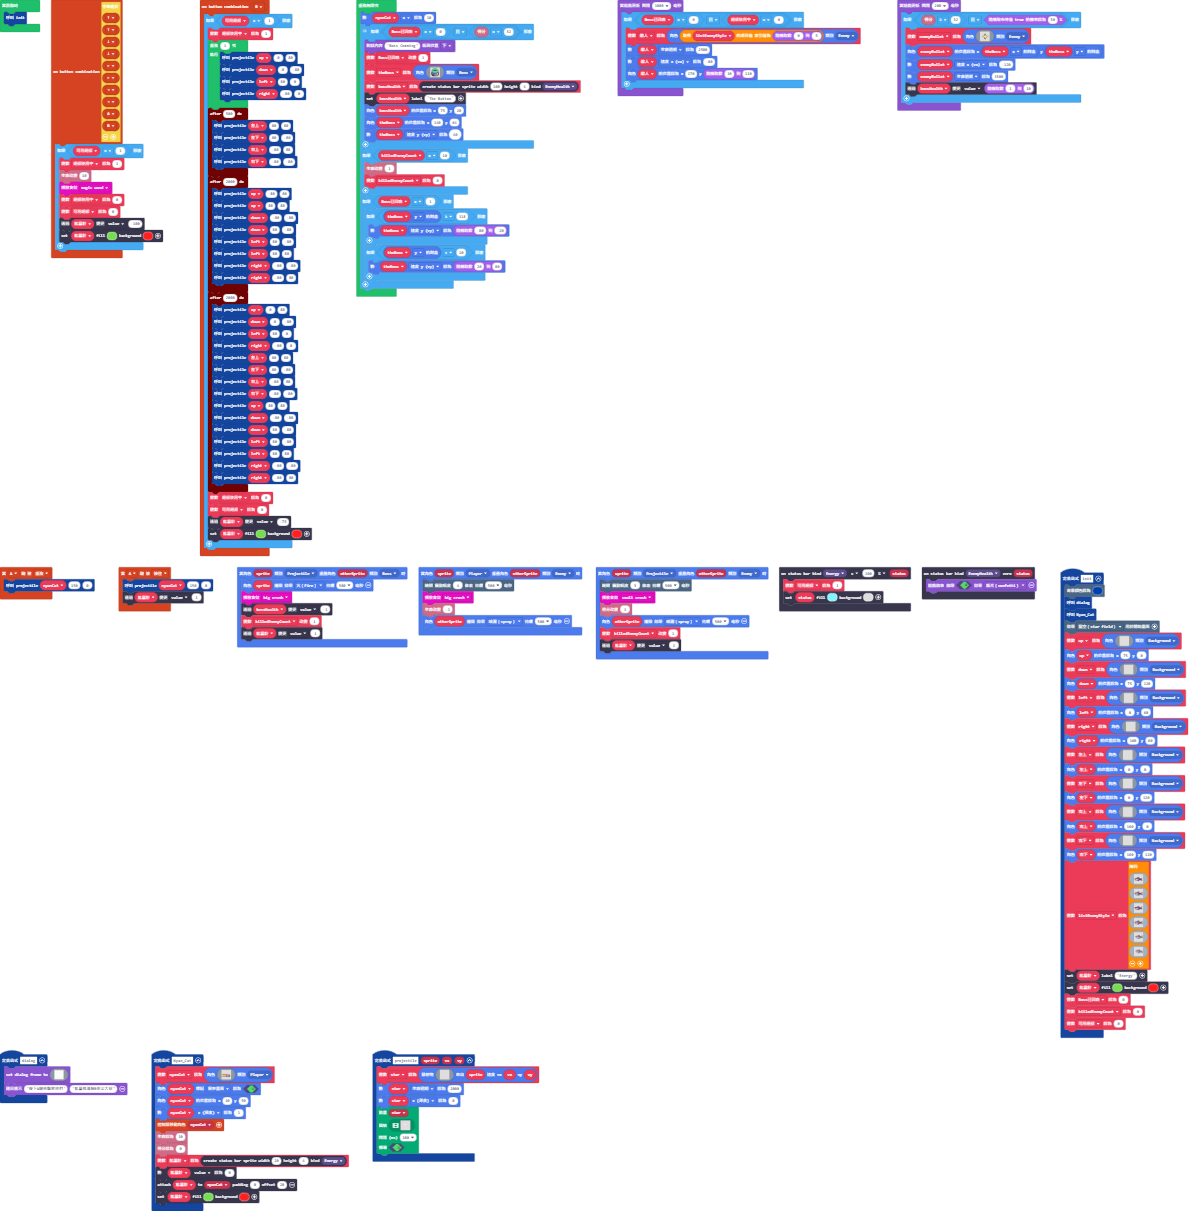
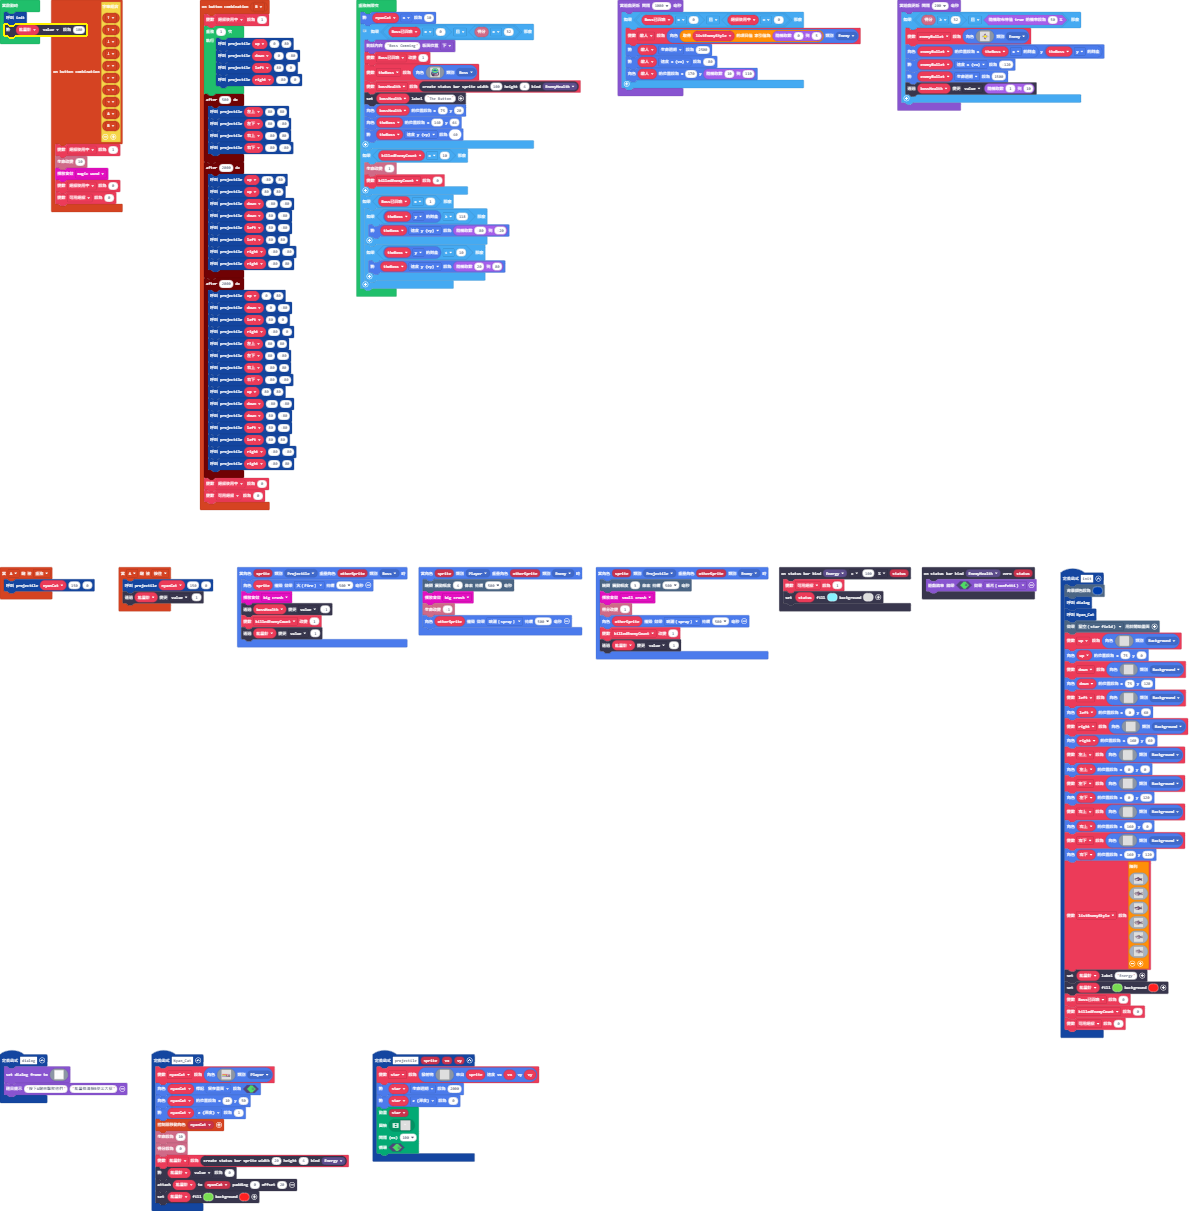
更新 main.blocks, main.ts

Changed region(s): [[0.0308, 0.0, 0.2773, 0.4583], [0.0, 0.0, 0.0924, 0.0611]]

diff --git a/main.ts b/main.ts
@@ -6,52 +6,48 @@ controller.A.onEvent(ControllerButtonEvent.Repeated, function () {
     projectile(nyanCat, 150, 0)
 })
 controller.combos.attachCombo(controller.combos.idToString(controller.combos.ID.B), function () {
-    if (可用絕招 == 1) {
-        絕招使用中 = 1
-        for (let index = 0; index < 1; index++) {
-            projectile(up, 0, 80)
-            projectile(down, 0, -80)
-            projectile(left, 80, 0)
-            projectile(right, -80, 0)
-        }
-        timer.after(500, function () {
-            projectile(左上, 80, 80)
-            projectile(左下, 80, -80)
-            projectile(右上, -80, 80)
-            projectile(右下, -80, -80)
-        })
-        timer.after(2000, function () {
-            projectile(up, -80, 80)
-            projectile(up, 80, 80)
-            projectile(down, -80, -80)
-            projectile(down, 80, -80)
-            projectile(left, 80, -80)
-            projectile(left, 80, 80)
-            projectile(right, -80, -80)
-            projectile(right, -80, 80)
-        })
-        timer.after(2000, function () {
-            projectile(up, 0, 80)
-            projectile(down, 0, -80)
-            projectile(left, 80, 0)
-            projectile(right, -80, 0)
-            projectile(左上, 80, 80)
-            projectile(左下, 80, -80)
-            projectile(右上, -80, 80)
-            projectile(右下, -80, -80)
-            projectile(up, 80, 80)
-            projectile(down, -80, -80)
-            projectile(down, 80, -80)
-            projectile(left, 80, -80)
-            projectile(left, 80, 80)
-            projectile(right, -80, -80)
-            projectile(right, -80, 80)
-        })
-        絕招使用中 = 0
-        可用絕招 = 0
-        能量計.value += -75
-        能量計.setColor(7, 2)
+    絕招使用中 = 1
+    for (let index = 0; index < 1; index++) {
+        projectile(up, 0, 80)
+        projectile(down, 0, -80)
+        projectile(left, 80, 0)
+        projectile(right, -80, 0)
     }
+    timer.after(500, function () {
+        projectile(左上, 80, 80)
+        projectile(左下, 80, -80)
+        projectile(右上, -80, 80)
+        projectile(右下, -80, -80)
+    })
+    timer.after(2000, function () {
+        projectile(up, -80, 80)
+        projectile(up, 80, 80)
+        projectile(down, -80, -80)
+        projectile(down, 80, -80)
+        projectile(left, 80, -80)
+        projectile(left, 80, 80)
+        projectile(right, -80, -80)
+        projectile(right, -80, 80)
+    })
+    timer.after(2000, function () {
+        projectile(up, 0, 80)
+        projectile(down, 0, -80)
+        projectile(left, 80, 0)
+        projectile(right, -80, 0)
+        projectile(左上, 80, 80)
+        projectile(左下, 80, -80)
+        projectile(右上, -80, 80)
+        projectile(右下, -80, -80)
+        projectile(up, 80, 80)
+        projectile(down, -80, -80)
+        projectile(down, 80, -80)
+        projectile(left, 80, -80)
+        projectile(left, 80, 80)
+        projectile(right, -80, -80)
+        projectile(right, -80, 80)
+    })
+    絕招使用中 = 0
+    可用絕招 = 0
 })
 controller.A.onEvent(ControllerButtonEvent.Pressed, function () {
     projectile(nyanCat, 150, 0)
@@ -101,15 +97,11 @@ statusbars.onZero(StatusBarKind.EnemyHealth, function (status) {
     game.over(true, effects.confetti)
 })
 controller.combos.attachCombo("" + controller.combos.idToString(controller.combos.ID.up) + controller.combos.idToString(controller.combos.ID.up) + controller.combos.idToString(controller.combos.ID.down) + controller.combos.idToString(controller.combos.ID.down) + controller.combos.idToString(controller.combos.ID.left) + controller.combos.idToString(controller.combos.ID.left) + controller.combos.idToString(controller.combos.ID.right) + controller.combos.idToString(controller.combos.ID.right) + controller.combos.idToString(controller.combos.ID.A) + controller.combos.idToString(controller.combos.ID.B), function () {
-    if (可用絕招 == 1) {
-        絕招使用中 = 1
-        info.changeLifeBy(10)
-        music.magicWand.play()
-        絕招使用中 = 0
-        可用絕招 = 0
-        能量計.value += -100
-        能量計.setColor(7, 2)
-    }
+    絕招使用中 = 1
+    info.changeLifeBy(10)
+    music.magicWand.play()
+    絕招使用中 = 0
+    可用絕招 = 0
 })
 function init () {
     scene.setBackgroundColor(8)
@@ -438,7 +430,7 @@ let Boss已召喚 = 0
 let listEnemyStyle: Image[] = []
 let killedEnemyCount = 0
 let bossHealth: StatusBarSprite = null
-let 能量計: StatusBarSprite = null
+let 可用絕招 = 0
 let 右下: Sprite = null
 let 右上: Sprite = null
 let 左下: Sprite = null
@@ -448,9 +440,10 @@ let left: Sprite = null
 let down: Sprite = null
 let up: Sprite = null
 let 絕招使用中 = 0
-let 可用絕招 = 0
 let nyanCat: Sprite = null
+let 能量計: StatusBarSprite = null
 init()
+能量計.value = 100
 game.onUpdateInterval(1000, function () {
     if (Boss已召喚 == 0 && 絕招使用中 == 0) {
         敵人 = sprites.create(listEnemyStyle[randint(0, 5)], SpriteKind.Enemy)
